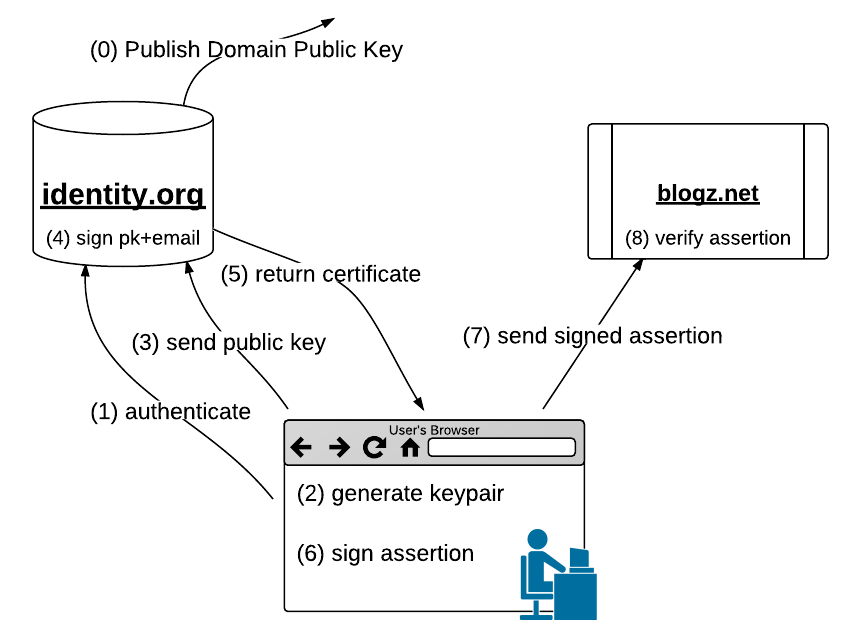
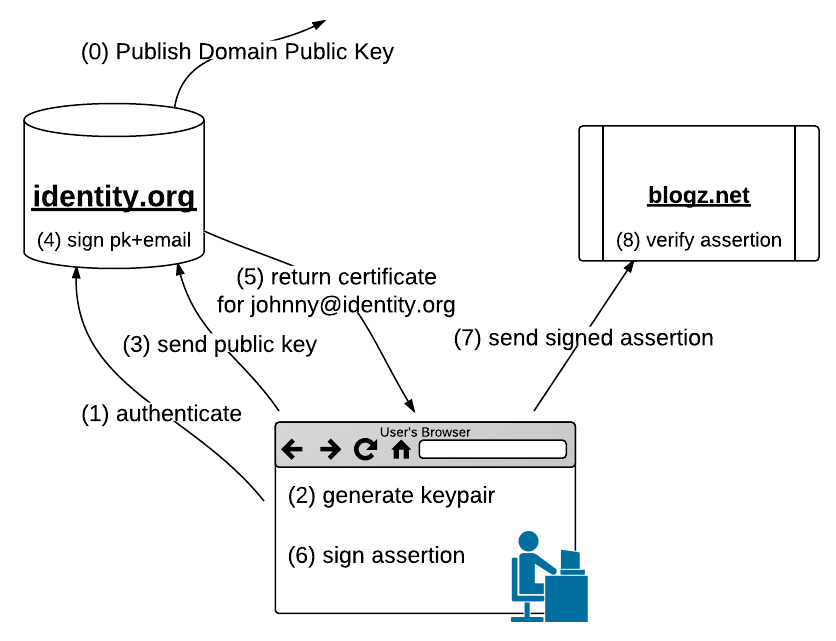
significant updates

Changed region(s): [[0.0311, 0.0312, 0.9952, 0.625], [0.0933, 0.5625, 0.7153, 0.9688], [0.2488, 0.6875, 0.2799, 0.7188]]

diff --git a/presentations/browserid-privacy-2011-08-17/index.html b/presentations/browserid-privacy-2011-08-17/index.html
@@ -21,25 +21,18 @@
 </section>
 
 <section>
-  <h2>what we'll focus on</h2>
-
-  <ul>
-    <li>BrowserID architecture</li>
-    <li>How and Why it's good for privacy</li>
-  </ul>
-
-  <h2>what we'll leave for next time</h2>
-  <ul>
-    <li>awesome developer ergonomics</li>
-    <li>details of the crypto</li>
-  </ul>
+<h2>better web login<br />with strong privacy protection</h2>
+<div align="center">
+<br />
+<img src="screenshot.png" width="400px" />
+</div>
 </section>
 
 <section>
-    <h2>Vision</h2>
+    <h2>vision</h2>
     <br />
     <ul>
-      <li> simple web login</li>
+      <li> simple for users and developers</li>
       <li> strong support for multiple personas</li>
       <li> decentralized, no lock-in</li>
       <li> privacy-protecting</li>
@@ -47,7 +40,7 @@
 </section>
 
 <section>
-  <h2>The Players</h2>
+  <h2>players</h2>
 
   <div align="center">
   <img src="setup.png" width="600px" />
@@ -55,29 +48,33 @@
 </section>
 
 <section>
-  <h2>The Browser's Inevitable Role</h2>
+  <h2>role of the browser</h2>
 
   <div align="center">
   <img src="browser-involvement.png" width="600px" />
   </div>
+  <details>
+    without browser, identity provider involved in login transaction.<br />
+    like a driver's license where, every time you check into a hotel, they call the state to verify.
+  </details>
 </section>
 
 <section>
-  <h2>Email Addresses</h2>
+  <h2>email addresses</h2>
 
-  <h3 style="font: fixed-width;" align="center">johnny@identity.org</h3>
+  <h3 style="font-family: courier;" align="center">johnny@identity.org</h3>
   <br />
   <ul>
     <li> distributed: domains certify their users</li>
-    <li> addressable: proven need</li>
-    <li> existing user intuition for personas</li>
-    <li> easy pseudonymity</li>
+    <li> addressable: proven need for sites</li>
+    <li> clear for users: intuition for personas</li>
+    <li> pseudonyms and self-hosting</li>
     <li> no lock-in: recover by emailing the user</li>
   </ul>
 </section>
 
 <section>
-  <h2>Flow</h2>
+  <h2>flow</h2>
 
   <div align="center">
   <img src="flow.png" width="600px" />
@@ -86,63 +83,90 @@
 </section>
 
 <section>
-  <h2>Long-Term Keys make Johnny Sad</h2>
+  <h2>key duration</h2>
 
   <br />
+  <h4>long-term keys</h4>
   <ul>
     <li> device loss/compromise: revocation?</li>
-    <li> device identification / fingerprinting</li>
-    <li> or worse, force user to carry around a key</li>
-    <li> do we need them? No.</li>
-    <li> no more power than needed.</li>
+    <li> binding a user to a key: non-repudiation</li>
   </ul>
-</section>
-
-
-<section>
-  <h2>Short-Term Signature Keys</h2>
-
+  <h4>short-term keys</h4>
   <ul>
-  </ul>
-</section>
-
-<section>
-  <h2>"Ideal" Architecture</h2>
-
-  <ul>
-  </ul>
-</section>
-
-<section>
-  <h2>Medium-Term Optimization<br />Secondary Authorities</h2>
-
-  <ul>
-  </ul>
-</section>
-
-<section>
-  <h2>Short-Term Optimization<br />JavaScript Implementation</h2>
-
-  <ul>
-  </ul>
-</section>
-
-<section>
-  <h2>Short-Term Optimization<br />Centralized Verifier</h2>
-
-  <ul>
+    <li> enough to transfer authority to user</li>
+    <li> enough to keep domain out of login dance</li>
+    <li> short enough to ignore revocation needs</li>
+    <li> short enough to prevent non-repudiation</li>
   </ul>
 </section>
 
 
 <section>
-  <h2>Summary</h2>
+  <h2>architecture goal</h2>
+
+  <div align="center">
+    <br />
+    <img src="ideal.png" width="600px" />
+  </div>
+</section>
+
+<section>
+  <h2>secondary authorities</h2>
+
+  <div align="center">
+    <br />
+    <img src="secondary.png" width="400px" />
+  </div>
+</section>
+
+<section>
+  <h2>javascript implementation</h2>
+
+  <div align="center">
+    <br />
+    <img src="js.png" height="450px" />
+  </div>
+
+</section>
+
+<section>
+  <h2>verifier service</h2>
+
+  <div align="center">
+    <br />
+    <img src="verifier.png" width="600px" />
+  </div>
+</section>
+
+<section>
+  <br /><br /><br /><br />
+  <h2>so... what's the point?</h2>
+</section>
+
+<section>
+  <h2>the relying parties<br />
+    don't change</h2>
+
+  <br /><br />
+  <blockquote style="font-family: Courier; margin-left:30px; border: 2px solid #888; background: lightyellow; padding: 20px; margin-right: 20px;">
+    navigator.id.getVerifiedEmail(...);
+  </blockquote>
+  <details>
+    scaffolding<br />
+    HDTV rollout: first get the TVs out with the capability, then upgrade programming.
+  </details>
+</section>
+
+<section>
+  <h2>summary</h2>
   <br />
   <ul>
-    <li>email addresses are ideal identifiers</li>
-    <li>designing privacy-protecting architecture</li>
-    <li>some optimizations in short term</li>
-    
+    <li> the browser plays a crucial role</li>
+    <li> email addresses are ideal identifiers</li>
+    <li> signatures keep login dance private</li>
+    <li> short-term keys reduce problems of loss</li>
+    <li> scaffolding for distributed architecture</li>
+    <li> optimizations in short term</li>
   </ul>
 </section>
 
@@ -161,6 +185,8 @@
 
 <!-- Maybe a font from http://www.google.com/webfonts ? -->
 <link href='http://fonts.googleapis.com/css?family=Oswald' rel='stylesheet'>
+<link href='http://fonts.googleapis.com/css?family=Questrial' rel='stylesheet' type='text/css'>
+<link href='http://fonts.googleapis.com/css?family=Open+Sans:400,600,700,800' rel='stylesheet' type='text/css'>
 
 <style>
   html { background-color: black; }
@@ -168,15 +194,21 @@
   /* A section is a slide. It's size is 800x600, and this will never change */
   section {
       /* The font from Google */
-      font-family: 'Oswald', arial, serif;
+      font-family: 'Open Sans', arial, serif;
       font-size: 2em;
   }
   h1, h2, h3 {
-      margin-top: 50px;
+      margin-top: 30px;
       text-align: center;
   }
+  h4 {
+  margin-left: 50px;
+  }
   ul {
-      margin-left: 200px;
+      margin-left: 120px;
+  }
+  li {
+      padding-bottom: 10px;
   }
   a { color: #FF0066; } a:hover {text-decoration: underline;}
   footer { position: absolute; bottom: 50px; right: 50px; }
